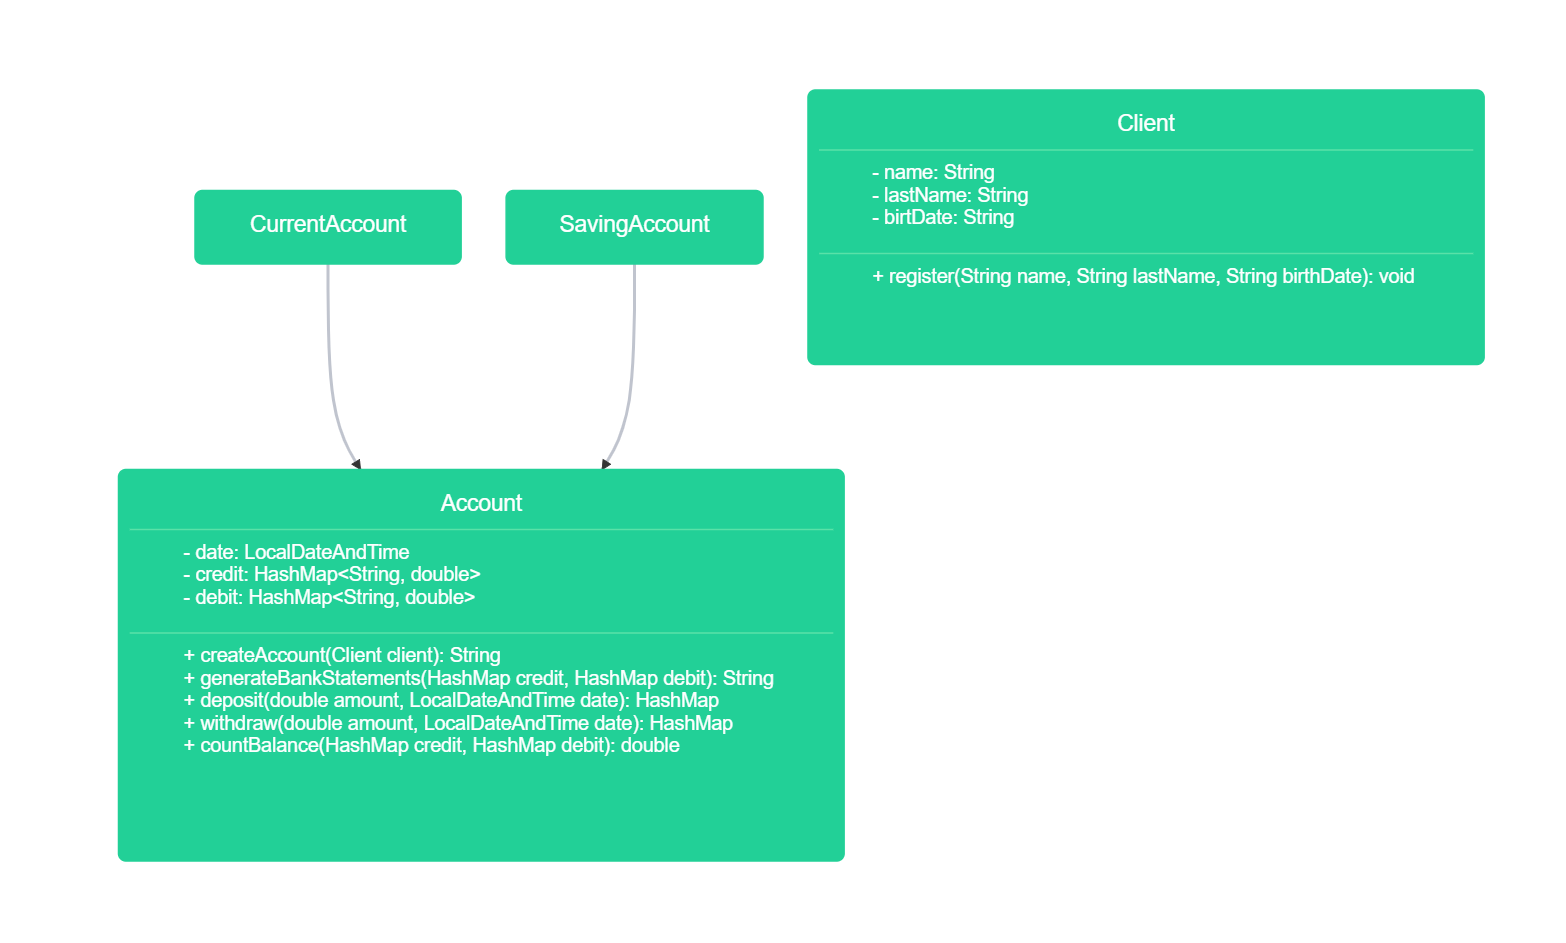
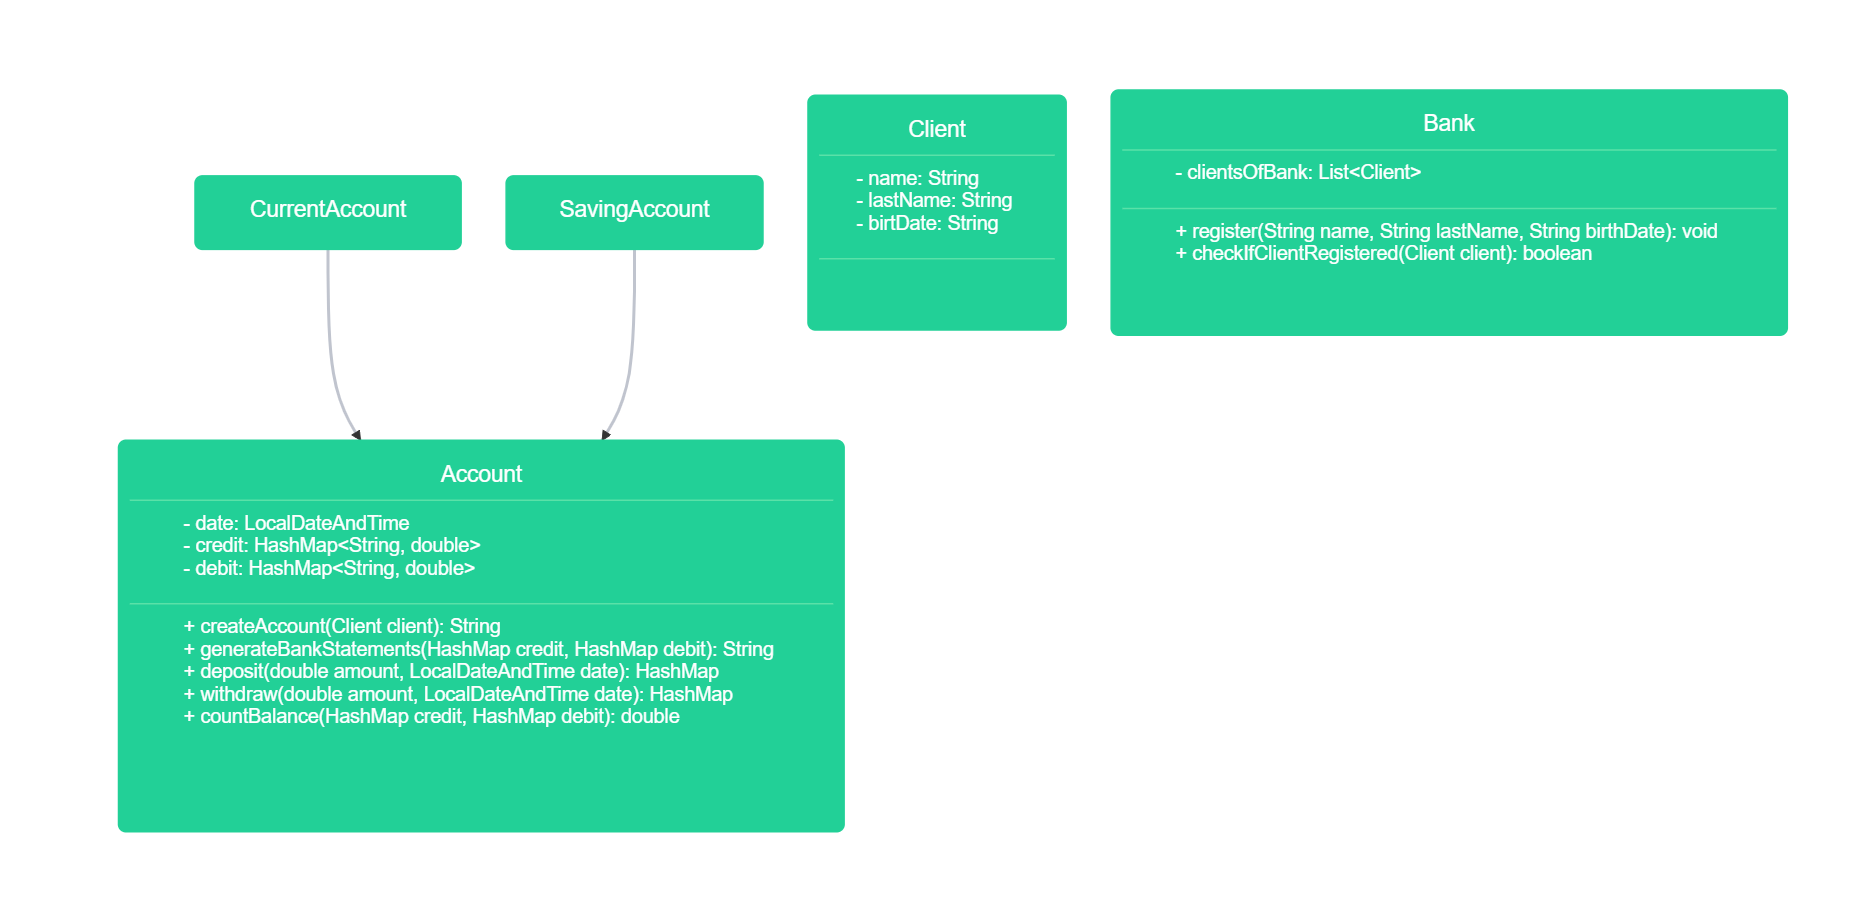
correction for domain model, diagram class and new class added

Changed region(s): [[0.0613, 0.4595, 0.5517, 0.919], [0.092, 0.0919, 0.9808, 0.3982]]

diff --git a/src/main/java/com/booleanuk/core/Client.java b/src/main/java/com/booleanuk/core/Client.java
@@ -1,0 +1,24 @@
+package com.booleanuk.core;
+
+import java.util.ArrayList;
+
+public class Client {
+
+    String name;
+    String lastName;
+    String birthDate;
+    public Client(String name, String lastName, String birthDate){
+        this.name = name;
+        this.lastName = lastName;
+        this.birthDate = birthDate;
+    }
+
+    @Override
+    public String toString() {
+        return "Client{" +
+                "name='" + name + '\'' +
+                ", lastName='" + lastName + '\'' +
+                ", birthDate='" + birthDate + '\'' +
+                '}';
+    }
+}

diff --git a/src/main/java/com/booleanuk/core/CurrentAccount.java b/src/main/java/com/booleanuk/core/CurrentAccount.java
@@ -1,0 +1,4 @@
+package com.booleanuk.core;
+
+public class CurrentAccount {
+}

diff --git a/src/main/java/com/booleanuk/core/SavingAccount.java b/src/main/java/com/booleanuk/core/SavingAccount.java
@@ -1,0 +1,4 @@
+package com.booleanuk.core;
+
+public class SavingAccount {
+}

diff --git a/src/test/java/com/booleanuk/core/AccountTest.java b/src/test/java/com/booleanuk/core/AccountTest.java
@@ -1,0 +1,4 @@
+package com.booleanuk.core;
+
+public class AccountTest {
+}

diff --git a/src/test/java/com/booleanuk/core/ClientTest.java b/src/test/java/com/booleanuk/core/ClientTest.java
@@ -1,0 +1,4 @@
+package com.booleanuk.core;
+
+public class ClientTest {
+}

diff --git a/src/test/java/com/booleanuk/core/BankTest.java b/src/test/java/com/booleanuk/core/BankTest.java
@@ -1,0 +1,4 @@
+package com.booleanuk.core;
+
+public class BankTest {
+}

diff --git a/src/main/java/com/booleanuk/core/Account.java b/src/main/java/com/booleanuk/core/Account.java
@@ -1,0 +1,4 @@
+package com.booleanuk.core;
+
+public class Account {
+}

diff --git a/src/main/java/com/booleanuk/core/Bank.java b/src/main/java/com/booleanuk/core/Bank.java
@@ -1,0 +1,4 @@
+package com.booleanuk.core;
+
+public class Bank {
+}

diff --git a/model-domain.md b/model-domain.md
@@ -10,12 +10,18 @@
 | SavingsAccount |         |         |          |         |
 |                |         |         |          |         |
 
-| Classes | Members          | Methods                                                  | Scenario                           | Outputs   |
-|---------|------------------|----------------------------------------------------------|------------------------------------|-----------|
-| Client  | String name      | register(String name, String lastName, String birthDate) | if birthDate doesn't contains dots | Exception |
-|         | String lastName  |                                                          |                                    |           |
-|         | String birthDate |                                                          |                                    |           |
-|         |                  |                                                          |                                    |           |
+| Classes | Members          | Methods | Scenario | Outputs |
+|---------|------------------|---------|----------|---------|
+| Client  | String name      |         |          |         |
+|         | String lastName  |         |          |         |
+|         | String birthDate |         |          |         |
+|         |                  |         |          |         |
+
+| Classes | Members                    | Methods                                                  | Scenario                           | Outputs   |
+|---------|----------------------------|----------------------------------------------------------|------------------------------------|-----------|
+| Bank    | List<Client> clientsOfBank | register(String name, String lastName, String birthDate) | if birthDate doesn't contains dots | Exception |
+|         |                            | checkIfClientRegistered(Client client)                   | if client registered in bank       | true      |
+|         |                            |                                                          | if client not registered in bank   | false     |
 
 | Classes | Members                        | Methods                                               | Scenario                                                                              | Outputs |
 |---------|--------------------------------|-------------------------------------------------------|---------------------------------------------------------------------------------------|---------|
